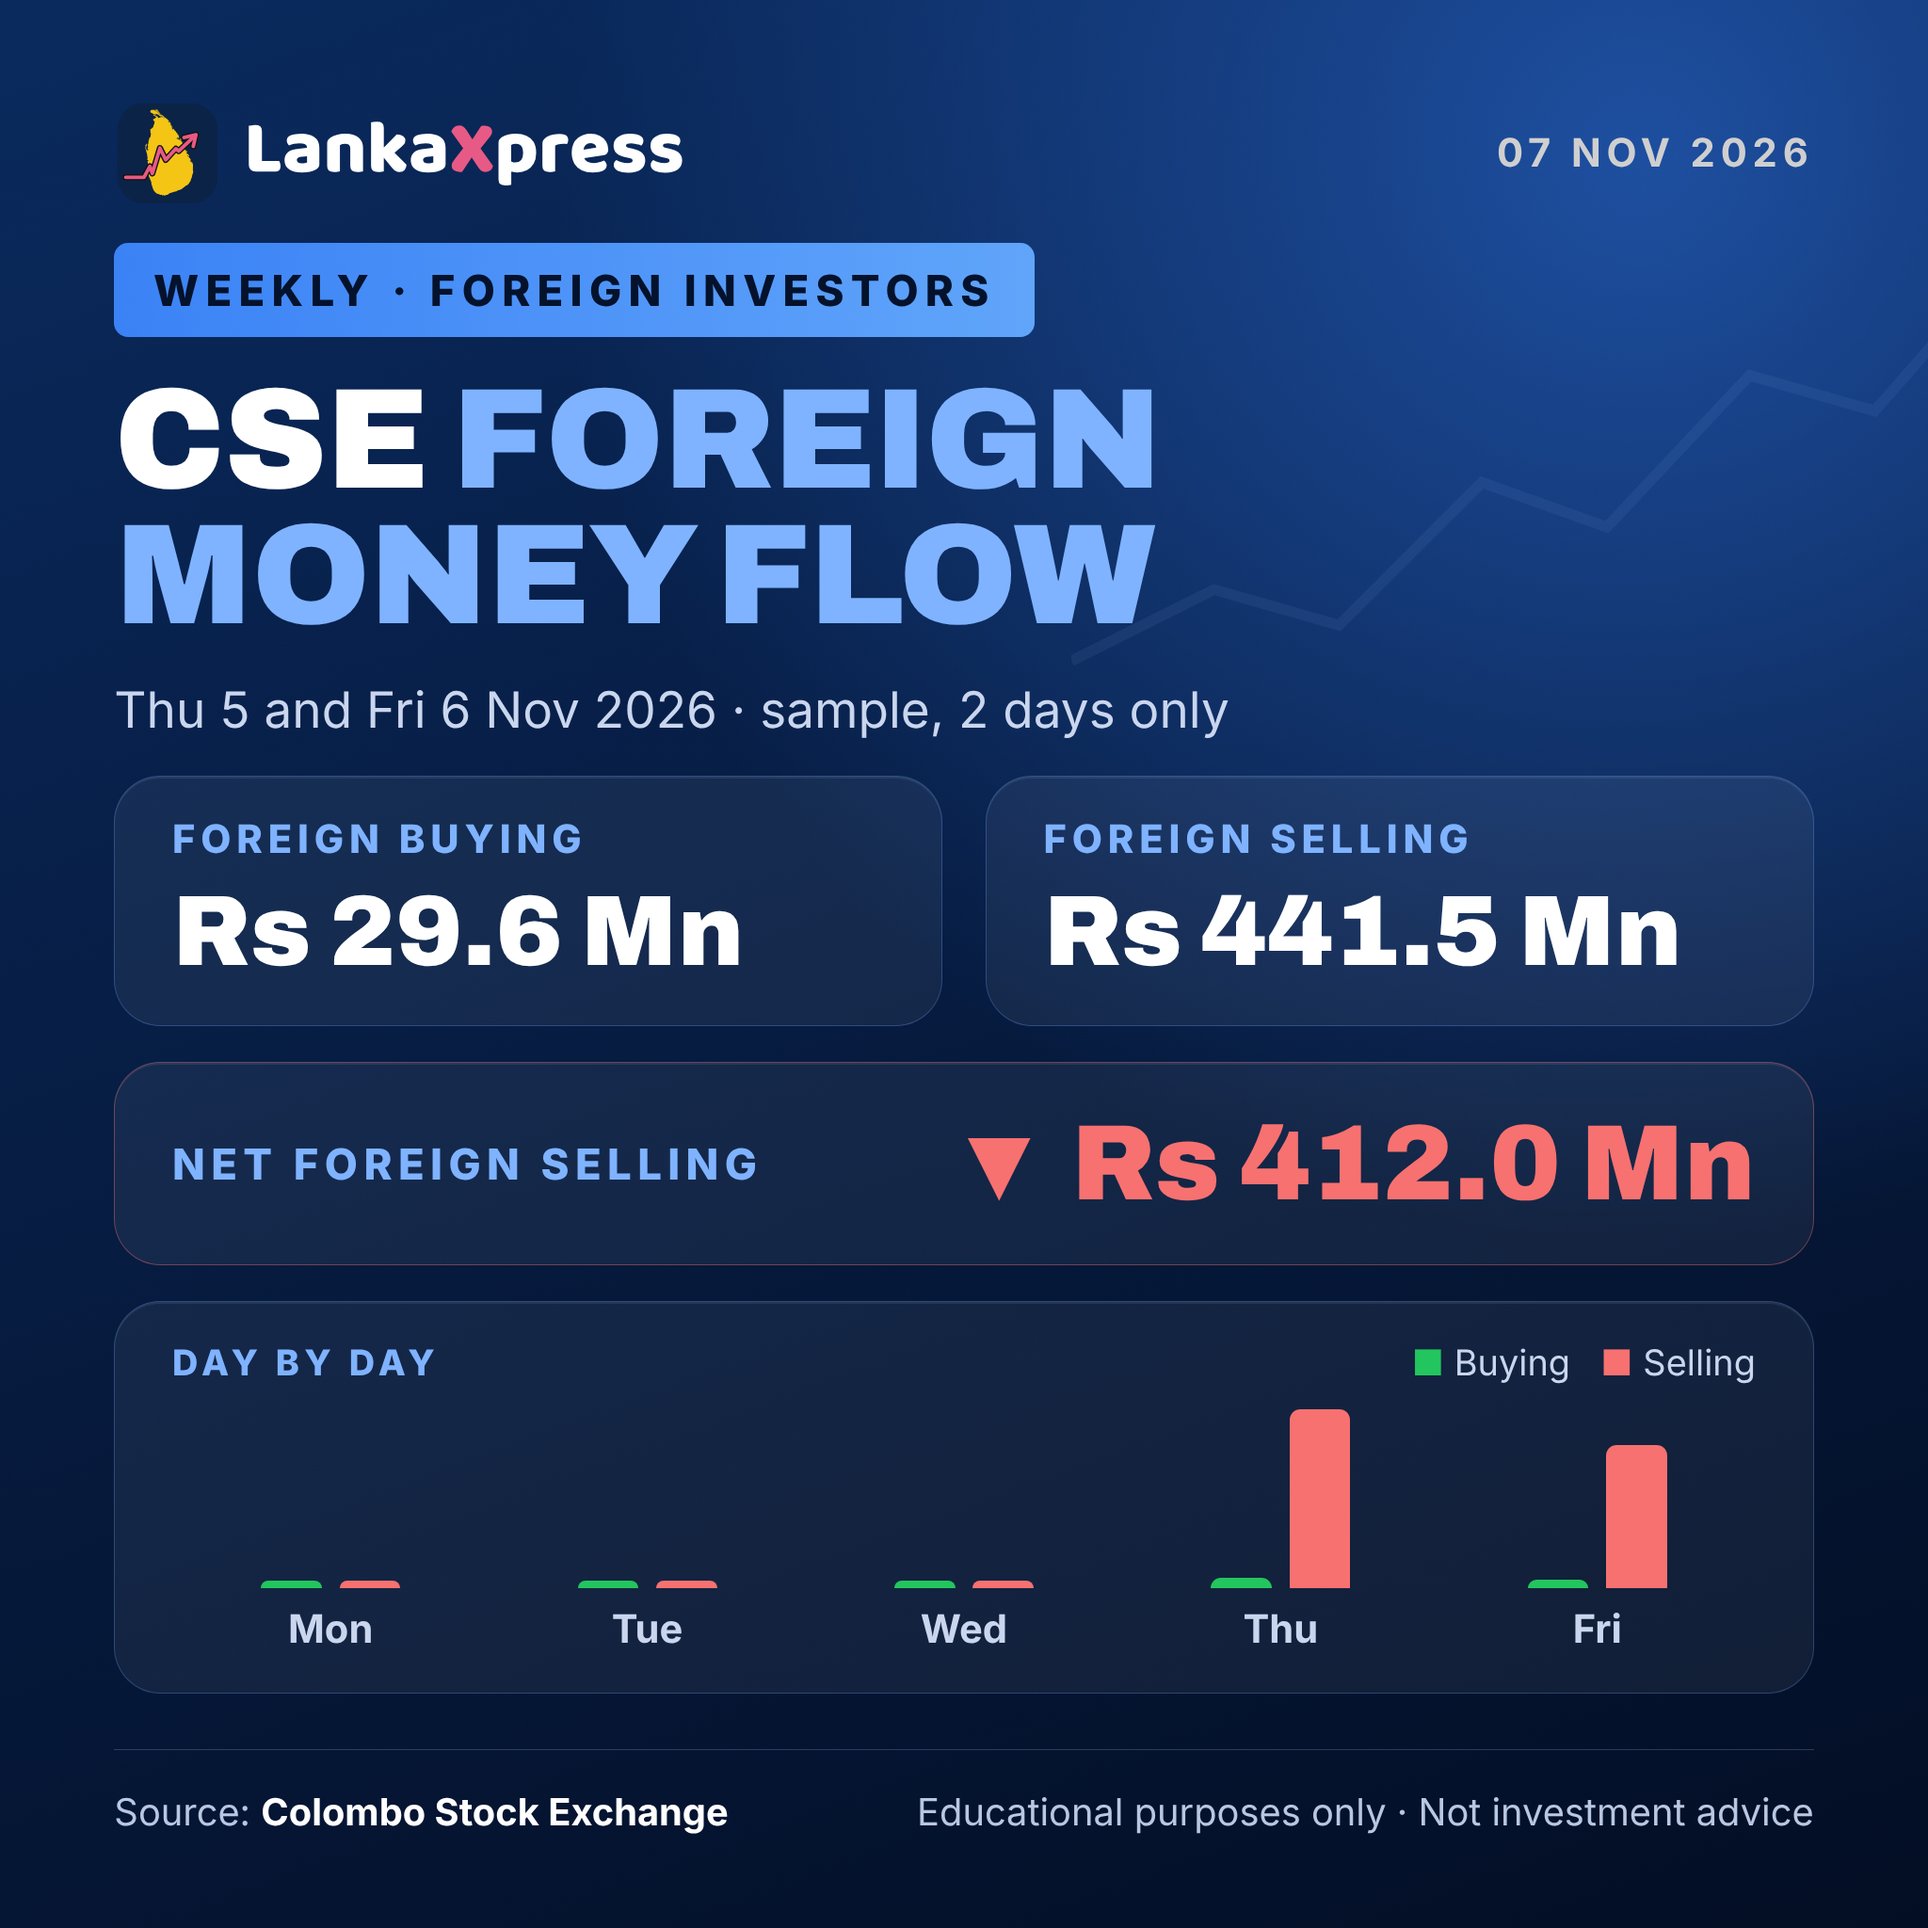
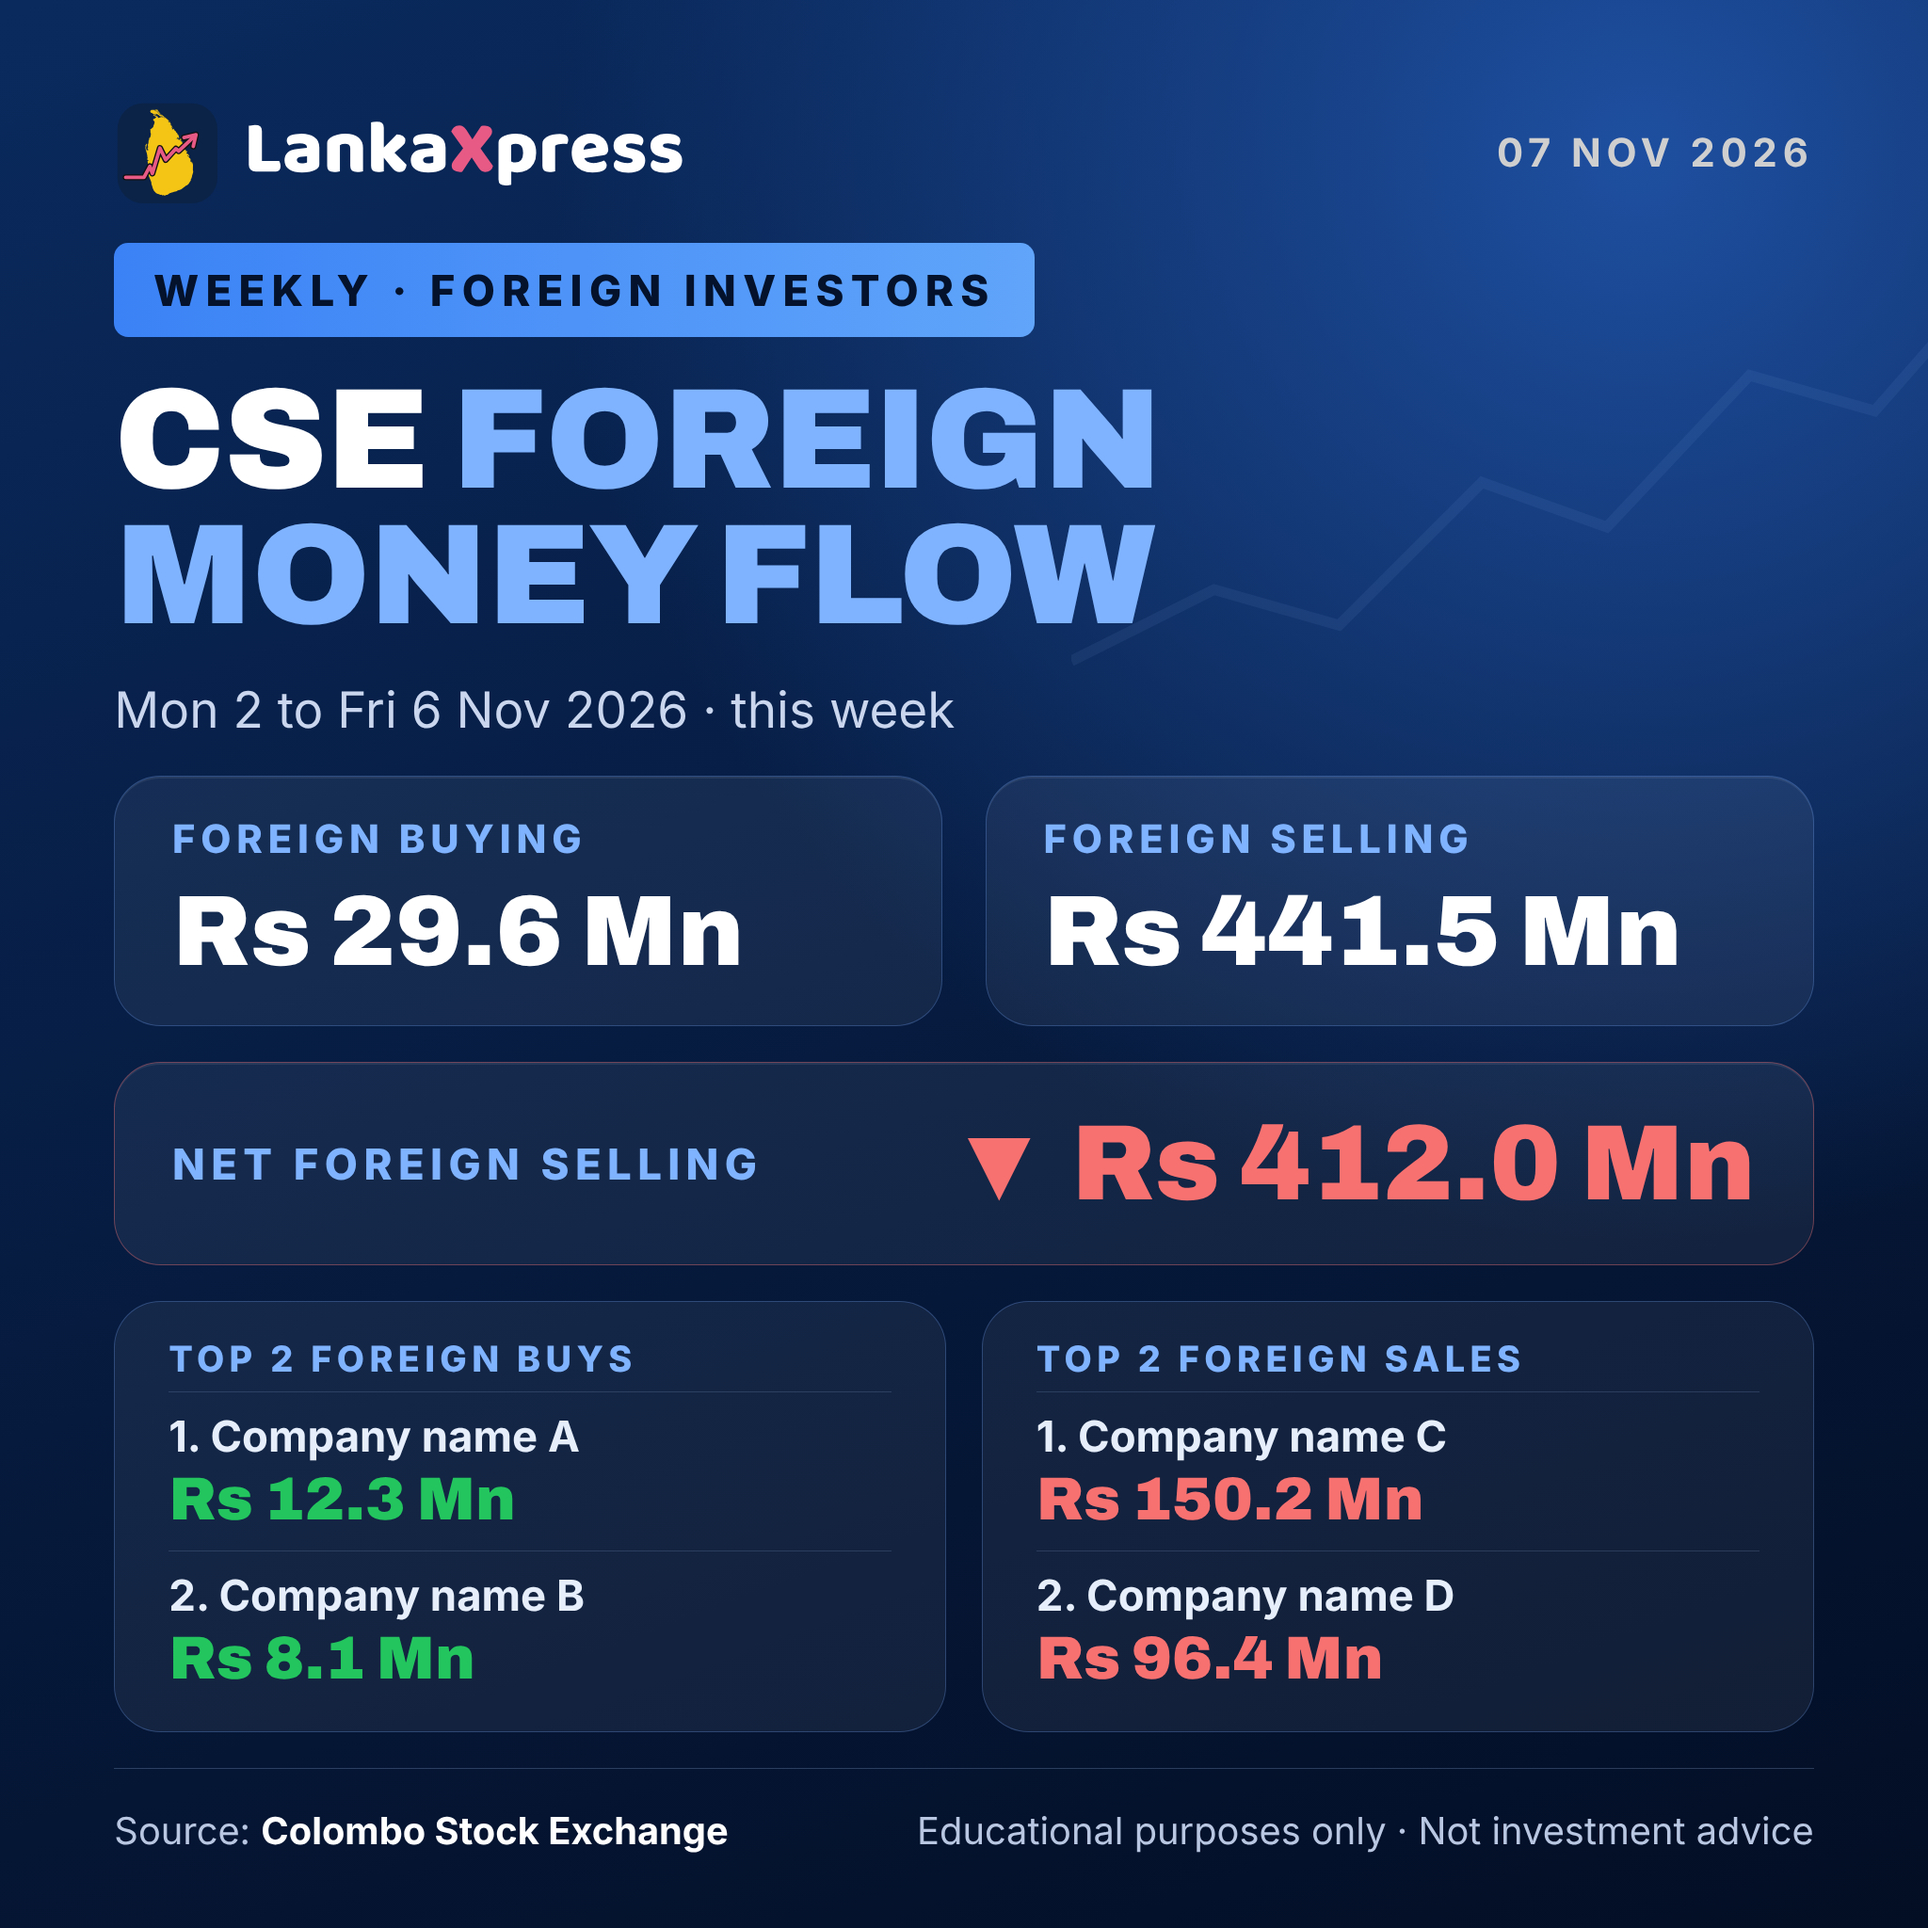
Foreign weekly: top 2 bought/sold companies replace day-by-day chart
Claude-Session: https://claude.ai/code/session_01VaiwC8zkTmVbXbNyuV3YEZ

diff --git a/templates/foreign_weekly_gen.py b/templates/foreign_weekly_gen.py
@@ -16,10 +16,10 @@ def card(d,out):
     netl=('NET FOREIGN BUYING' if up else 'NET FOREIGN SELLING')
     rows=''
     if d.get('topbuy') and d.get('topsell'):
-        def li(xs,c): return ''.join(f'<div style="display:flex;justify-content:space-between;font-size:26px;font-weight:700;padding:6px 0"><span>{n}</span><span style="color:{c}">{fmt(v)}</span></div>' for n,v in xs)
-        rows=f'''<div style="display:flex;gap:24px">
-<div style="flex:1;background:rgba(255,255,255,0.06);border:1px solid rgba(120,170,255,0.25);border-radius:22px;padding:22px 28px"><div style="font-size:20px;font-weight:800;letter-spacing:.14em;color:#7FB2FF">MOST BOUGHT</div>{li(d['topbuy'],'#22C55E')}</div>
-<div style="flex:1;background:rgba(255,255,255,0.06);border:1px solid rgba(120,170,255,0.25);border-radius:22px;padding:22px 28px"><div style="font-size:20px;font-weight:800;letter-spacing:.14em;color:#7FB2FF">MOST SOLD</div>{li(d['topsell'],'#F87171')}</div></div>'''
+        def li(xs,c,lab):
+            r=''.join(f'<div style="padding:10px 0;border-top:1px solid rgba(160,190,240,.18)"><div style="font-size:24px;font-weight:700;color:#E6EEFB;white-space:nowrap;overflow:hidden;text-overflow:ellipsis">{k+1}. {n}</div><div style="font-family:Archivo;font-weight:900;font-size:34px;color:{c};margin-top:2px">{fmt(v)}</div></div>' for k,(n,v) in enumerate(xs))
+            return f'<div style="flex:1;background:rgba(255,255,255,0.06);border:1px solid rgba(120,170,255,0.28);border-radius:26px;padding:20px 30px 12px"><div style="font-size:20px;font-weight:800;letter-spacing:.14em;color:#7FB2FF;padding-bottom:6px">{lab}</div>{r}</div>'
+        rows=f'<div style="display:flex;gap:20px">{li(d["topbuy"],"#22C55E","TOP 2 FOREIGN BUYS")}{li(d["topsell"],"#F87171","TOP 2 FOREIGN SALES")}</div>'
     box='background:rgba(255,255,255,0.06);border:1px solid rgba(120,170,255,0.28);border-radius:26px;box-shadow:inset 0 1px 0 rgba(255,255,255,0.08)'
     chart=''
     if d.get('days') and not rows:
@@ -41,8 +41,8 @@ def card(d,out):
 <div style="flex:1;{box};padding:22px 32px"><div style="font-size:22px;font-weight:800;letter-spacing:.14em;color:#7FB2FF">FOREIGN SELLING</div><div style="font-family:Archivo;font-weight:900;font-size:56px;margin-top:8px">{fmt(d['sell'])}</div></div>
 </div>
 <div style="{box};padding:22px 32px;display:flex;justify-content:space-between;align-items:center;border-color:{netc}66"><div style="font-size:24px;font-weight:800;letter-spacing:.14em;color:#7FB2FF">{netl}</div><div style="font-family:Archivo;font-weight:900;font-size:60px;color:{netc}">{'▲' if up else '▼'} {fmt(abs(net))}</div></div>
-{rows}{chart}
-<div style="margin-top:auto;border-top:1px solid rgba(160,190,240,.25);padding-top:22px;display:flex;justify-content:space-between;font-size:21px;color:#B9C7E2"><span>Source: <b style="color:#fff">Colombo Stock Exchange</b></span><span>Educational purposes only · Not investment advice</span></div>
+{rows}
+<div style="margin-top:auto;border-top:1px solid rgba(160,190,240,.25);padding-top:22px;display:flex;justify-content:space-between;font-size:21px;color:#B9C7E2"><span>Source: <b style="color:#fff">{d.get("src","Colombo Stock Exchange")}</b></span><span>Educational purposes only · Not investment advice</span></div>
 </div></body></html>'''
     html=html.replace('–',' to ').replace('—',', ')
     open('_r.html','w').write(html)
